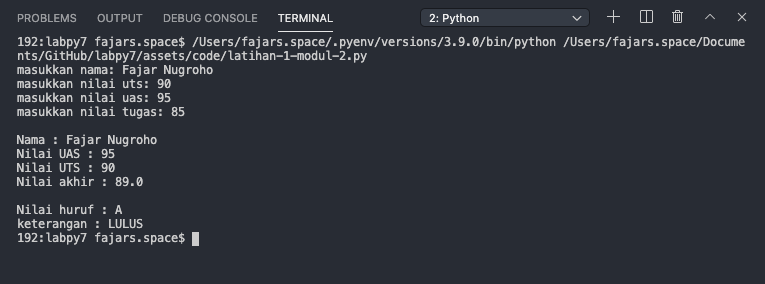
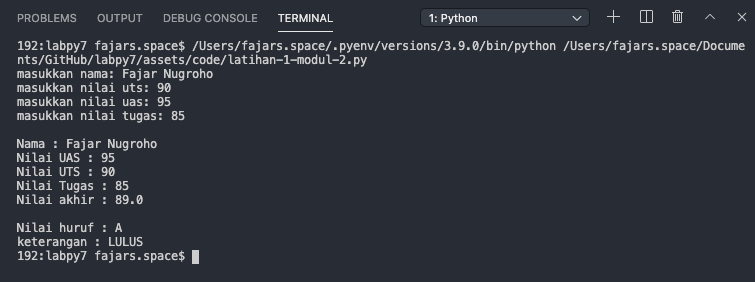
rebuilding task Sat Nov  7 22:21:23 WIB 2020

diff --git a/assets/code/latihan-1-modul-2.py b/assets/code/latihan-1-modul-2.py
@@ -18,7 +18,8 @@ else:
 
 print("\nNama :",nama) 
 print("Nilai UAS :",uas) 
-print("Nilai UTS :",uts) 
+print("Nilai UTS :",uts)
+print("Nilai Tugas :",tugas)  
 print("Nilai akhir :",akhir) 
 print("\nNilai huruf :",huruf) 
 print("keterangan :",keterangan) 

diff --git a/README.md b/README.md
@@ -22,6 +22,7 @@ Output:
 
 ![latihan1.1](assets/img/lab3/1.1.png)
 
+## Latihan 2
 ![latihan2](assets/img/lab3/2.png)
 
 ```
@@ -64,12 +65,19 @@ else:
 
 print("\nNama :",nama) 
 print("Nilai UAS :",uas) 
-print("Nilai UTS :",uts) 
+print("Nilai UTS :",uts)
+print("Nilai Tugas :",tugas)  
 print("Nilai akhir :",akhir) 
 print("\nNilai huruf :",huruf) 
 print("keterangan :",keterangan) 
 
 ```
+Penjelasan:
+* Masukkan nilai yang sudah di tentukan oleh variabel, seperti ``nama, uts, uas,tugas``
+* untuk ``akhir = (int(tugas) * .2) + (int(uts) * .4) + (int(uts) * .4)``
+* 
+
+
 Output:
 
 ![latihan1-modul2](assets/img/praktikum-2/1.png)
@@ -208,7 +216,7 @@ total=b+b+c+c+d+d+d+e
 print("\Total : ",total)
 ```
 Penjelasan:
-* Variabel a = 100.000.000( modal awal)
+* Variabel ``a = 100.000.000`` modal awal
 
 * Menggunakan fungsi looping for pada nilai x 1-9 untuk menampilkan bulan 1 sampai bulan 8.
 
@@ -220,7 +228,7 @@ Penjelasan:
 
 * Bulan ke 5 mendapatkan laba 5%, sehingga modal dikali 5% = keuntungan
 
-* Bulan ke 8 mmendapatkan laba 2% sehingga keuntungan menurun dari bulan sebelumnya, modal dikali 2% = keuntungan.
+* Bulan ke 8 mendapatkan laba 2% sehingga keuntungan menurun dari bulan sebelumnya, modal dikali 2% = keuntungan.
 
 * Menghitung jumlah total laba dengan menjumlah keuntungan dari bulan ke 1 sampai bulan 8, hasilnya adalah total keuntungan yang didapat.
 
